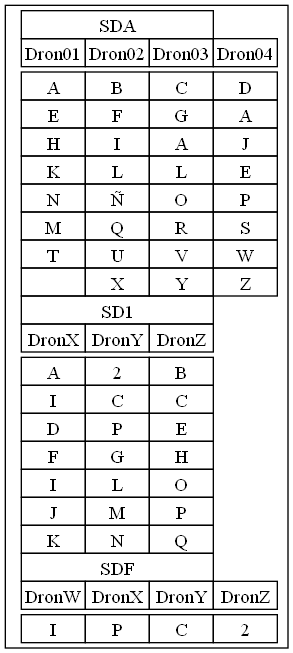
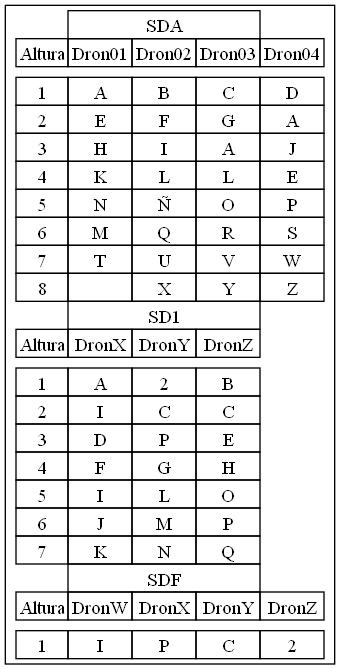
modificaciones graficas

Changed region(s): [[0.0, 0.0, 1.0, 1.0]]

diff --git a/listaMovimientos.py b/listaMovimientos.py
@@ -1,3 +1,4 @@
+import os
 from nodoMovimientos import nodoMovimientos
 from CMovimientos import CMovimientos
 
@@ -52,6 +53,97 @@ class listaMovimientos:
             actual = self.primero
             self.primero = self.primero.siguiente
             del actual
+    
+    # def generar_dot(self):
+    #     dot_code = """
+        
+            
+                
+    #     <td>Tiempo</td>
+                
+    #     """
+
+    #     drone_names_added = set()
+
+    #     aux = self.primero
+    #     while aux:
+    #         dron = aux.CMovimientos.dron
+    #         altura = aux.CMovimientos.altura
+    #         movimiento = aux.CMovimientos.movimiento
+
+    #         # Si el nombre del dron no está en la lista, agrégalo al DOT
+    #         if dron not in drone_names_added:
+    #             dot_code += f"""
+    #                 <td bgcolor="lightgray">{dron}</td>
+    #             """
+    #             drone_names_added.add(dron)
+
+    #         dot_code += f"""
+    #             </tr>
+    #             <tr>
+    #                 <td>{altura}</td>
+    #                 <td>{movimiento}</td>
+    #             </tr>
+    #         """
+
+    #         aux = aux.siguiente
+
+    #     dot_code += "</tr>"
+
+    #     return dot_code
+    
+    def generar_dot(self):
+        dot_code = """
+        
+            <tr>
+                
+        <td>Tiempo</td>
+                
+        """
+        drone_names_added = set()
+        aux = self.primero
+        while aux:
+            dron = aux.CMovimientos.dron
+            if dron not in drone_names_added:
+                dot_code += f"""
+                
+                    
+                    <td>{aux.CMovimientos.dron}</td>
+                    
+
+                """
+                
+                drone_names_added.add(dron)
+                
+            dot_code += f"""
+            <tr>
+                <td>{aux.CMovimientos.movimiento}</td>
+            """
+            aux = aux.siguiente
+        dot_code += f"""
+            
+        </tr>
+        """
+
+        dot_code += "</tr>"
+
+        return dot_code
+
+
+    def recorrer_grafica(self):
+        f = open('aa.dot', 'w', encoding="utf-8")
+
+        dot_code = f"""
+        digraph G {{
+            node [shape=box];
+            tbl [label=<<table border="0" cellborder="1" cellspacing="0">{self.generar_dot()}</table>>];
+        }}
+        """
+
+        f.write(dot_code)
+        f.close()
+        os.environ["PATH"] += os.pathsep + 'C:/Program Files/Graphviz/bin'
+        os.system(f"dot -Tpng aa.dot -o Movimientos.png")
     
     
     def __iter__(self):

diff --git a/FrmInicio.py b/FrmInicio.py
@@ -111,7 +111,7 @@ class FrmInicio:
         gestion_mensajes_menu.add_separator()
         gestion_mensajes_menu.add_command(label="Ver instrucciones de mensajes", command=self.mostrar_tablaMensajes)
         gestion_mensajes_menu.add_separator()
-        gestion_mensajes_menu.add_command(label="Grafica instrucciones", command=self.clear_page)
+        gestion_mensajes_menu.add_command(label="Grafica instrucciones", command=self.graficar_lista_movimientos)
         
         gestion_mensajes_menu.post(menu_x, menu_y)
 
@@ -406,6 +406,10 @@ class FrmInicio:
     
     def graficar_lista_drones(self):
         self.readFile.graficar()
+        messagebox.showinfo("Grafica", "Grafica creada")
+    
+    def graficar_lista_movimientos(self):
+        self.lista_movimientos_temp.recorrer_grafica()
         messagebox.showinfo("Grafica", "Grafica creada")
     
     def clear_page(self):

diff --git a/listaAlturas.py b/listaAlturas.py
@@ -65,12 +65,11 @@ class listaAlturas:
         
         
         actual =self.primero
-        sentinela_de_filas=actual.CAlturas.altura 
+        sentinela_de_filas=None
         fila_iniciada=False
         while actual != None:
-
-            if int(sentinela_de_filas)!=int(actual.CAlturas.altura) :
-                dot_code += f"""</tr><tr><td border="0"></td>"""
+            if sentinela_de_filas is None or int(sentinela_de_filas)!=int(actual.CAlturas.altura) :
+                dot_code += f"""</tr><tr><td border="1">{str(actual.CAlturas.altura)}</td>"""
                 sentinela_de_filas=actual.CAlturas.altura 
                 fila_iniciada=False
 

diff --git a/listaContenido.py b/listaContenido.py
@@ -38,8 +38,8 @@ class listaContenido:
         
             <tr>
                 
-                <td border="0"></td>
-            
+        <td>Altura</td>
+                
         """
 
         aux = self.primero
@@ -53,6 +53,7 @@ class listaContenido:
             """
             aux = aux.siguiente
         dot_code += f"""
+            
         </tr>
         """
 
@@ -60,7 +61,7 @@ class listaContenido:
         dot_code += """<tr><td border="0"></td>"""
         while actual1:
             dot_code += """
-        
+            
             
             """   
             actual1 = actual1.siguiente

diff --git a/listaMensajeCreado.py b/listaMensajeCreado.py
@@ -1,3 +1,4 @@
+import os
 from nodoMensajeCreado import nodoMensajeCreado
 from CMensajeCreado import CMensajeCreado
 import xml.etree.ElementTree as ET
@@ -86,6 +87,9 @@ class listaMensajeCreado:
             else:
                 element.tail = '\n' + indent * (level-1)  
             queue[0:0] = children
+    
+    
+    
     
     
     def __iter__(self):
